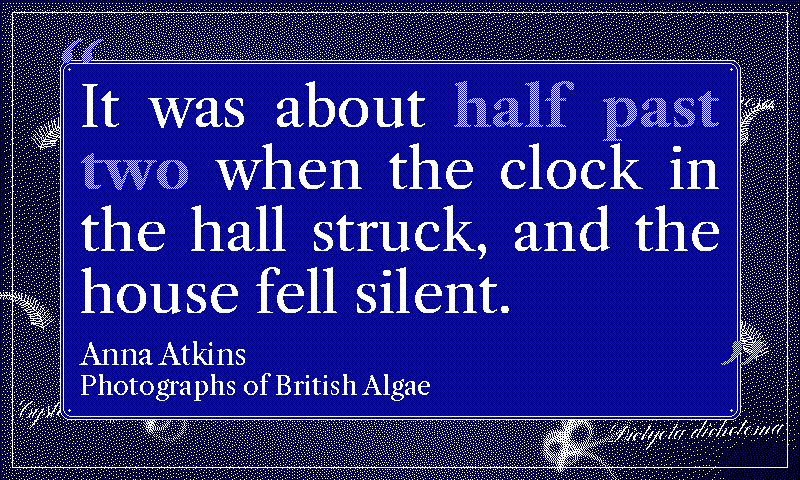
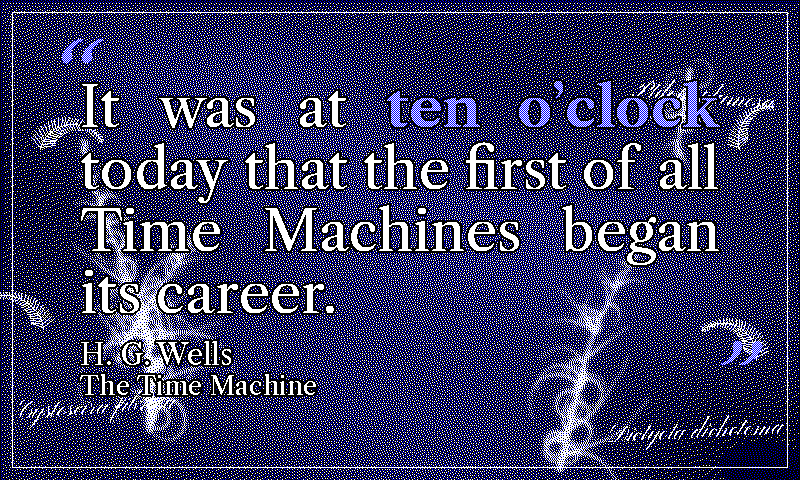
Refresh the anna_atkins preview and its stale CLAUDE.md description
The preview under idle_hours/assets/previews/ was committed with the
theme (19bcbca) and never regenerated, so it was stale twice over.

It showed a placeholder quote attributed to "Anna Atkins / Photographs
of British Algae" rather than the pinned H. G. Wells passage every other
preview uses, breaking the README table's "one passage shown sixty-one
ways" premise for this row.

It also showed the body-text knockout panel that 1654c94 removed. That
commit replaced the panel with a per-glyph black halo so the full
photogram stays visible, and regenerated the golden fixture, but not the
preview -- the golden suite fences the code, nothing fences the previews.

CLAUDE.md still described the removed panel as layer (5) and still
claimed the theme was threaded through the clear_rect-knockout dispatch,
which contradicted both the code and the comment _CLEAR_RECT_PADS
carries saying anna_atkins deliberately omits a knockout. Rewrite layer
(5) to describe the halo and record why the panel went: the failure was
geometric rather than chromatic -- both the Prussian-blue and the
frosted-grey variants covered ~62% of the canvas (663x359 of 800x480,
measured off the shipped blue one), so no tint would have saved it.

The preview is now byte-identical to what the documented regeneration
command in the README produces.

Claude-Session: https://claude.ai/code/session_01PbEGAhRw54Eiqhzg9bjcUW

diff --git a/CLAUDE.md b/CLAUDE.md
@@ -608,7 +608,7 @@ Two of those additions failed on their first cut, in the same direction: **too m
   - `chrono` (twilight-blue gradient sky / white body / yellow matched-phrase, Pixelify Sans — a **16-bit SNES JRPG** dialogue scene (Final Fantasy VI / Chrono Trigger era), the eighth theme to bypass the literary layout entirely, dispatching from `render` into its own `render_chrono_frame`. The deliberate companion / step-up to the 8-bit `questline`: where questline is flat NES bands + chunky monospace Press Start 2P, chrono shows the three things 8-bit hardware couldn't — **gradient-shaded backgrounds**, a **translucent-blue gradient dialogue window with a rounded beveled border**, and a **character portrait sub-window** — in the finer, multi-weight Pixelify Sans. `_chrono_paint_sky` paints an atmospheric twilight: a per-row Bayer **density-ramp gradient** (deep navy B+K at the zenith fading to pure blue at mid-sky, then a rising white-dither haze toward the horizon — the continuous tone flat 8-bit bands can't produce), ~70 deterministic white stars (`_CHRONO_STAR_SEED`, cleared from the moon's disc), a pale white moon with faint sky-blue (B+W) craters, and a **two-range mountain silhouette** (a solid-blue back range + a navy B+K-dithered front range via `_chrono_fill_poly`) for parallax depth. The quote sits in the iconic **FF blue window** (`_chrono_window_fill` paints a navy→blue→faint-sky-blue vertical gradient onto a private tile and pastes it through a rounded-rectangle mask so the corners read soft; `_chrono_window_border` strokes a white rounded double frame with small yellow corner-accent ticks). A **portrait sub-window** (`_chrono_paint_portrait`, same window recipe at smaller scale) carries an ornate, *shaded* **hourglass** — the "portrait" a cutscene frames beside the dialogue, and thematically exact for `chrono` (= time). A hand-built frontal face reads as crude on a 6-ink panel; a geometric object renders cleanly and lets the tonal-dither trick do real work. The hourglass uses **multi-tone shading ramps synthesised from the six inks** (`_CHRONO_ART_TONES`: cream→gold→bronze brass via Y+W / Y / R+Y, amber sand at varying R+Y density, sky-tint glass via B+W) so the brass, glass and sand read as rounded, lit volumes rather than flat shapes. `_chrono_build_hourglass` sculpts it with **vector shapes at a low logical resolution** (a brass frame — capped top/bottom with finials + two shaded side posts — two sky-tinted glass bulbs with specular streaks, and amber sand draining from a dished surface in the upper bulb through the neck as a thin stream onto a mound in the lower bulb; light from the upper-left) drawn into a tone-indexed `L` image; `_chrono_paint_hourglass` upscales it (NEAREST) and dither-maps each tone index to its Spectra-6 colour at absolute panel coordinates so the synthesised tones share a continuous Bayer phase with the rest of the frame. This shape-plus-dither approach is what gets the rounded SNES look out of a 6-ink panel — a flat hand-pixelled sprite cannot. (An earlier revision rendered a shaded anime face here; the geometric hourglass both reads cleaner on the panel and ties the portrait to the theme.) `_chrono_paint_dialogue` prints the **author as a white Pixelify Sans Bold speaker-name header**, then the quote left-aligned below with the matched time-phrase in **yellow Pixelify Sans Bold** — a real weight step on top of the accent colour, the payoff of the variable font (questline's single-weight Press Start 2P differentiates on colour alone). A yellow ▼ continue arrow sits bottom-right; a white `— from {Title} —` footer runs along the window foot (a sky-blue B+W dither was tried but averaged too close to the window fill to stay legible at the footer point size). Like `questline` / `marquee`, the digital HH:MM is **never surfaced** — the matched phrase carries the time; `time_str` is `del`-asserted at the top of `render_chrono_frame`. Saturation tier `0.7` (gradient-blue ground). Stays in the button-B / auto / random rotation. No `_DEBUG_LABEL_RIGHT_INSET` entry — custom frame, ignores `mode`.)
   - `outrun` (black ground / white Oxanium body / synthesised-magenta matched-phrase, **1980s synthwave / Outrun sunset** — the ninth theme to bypass the literary layout entirely, dispatching from `render` into its own `render_outrun_frame`. The "neon" counterpart to the cool digital themes (`nightvision` terminal-green, `chrono` JRPG-blue): where those are screens, outrun is a *poster*. Composition layers (deepest → shallowest): (1) `_outrun_paint_sky` — a two-zone per-row Bayer **density-ramp gradient** giving a continuous deep-indigo-navy zenith (blue + a heavy black wash) → pure blue mid-sky → red-leaning **magenta horizon** (blue + red, red capped at 0.36 so it stays a blue-leaning violet rather than tipping into fire-engine red — red out-luminates blue, so an even mix reads hot); the zone seam is placed exactly where the navy ramp reaches pure blue (black density 0) so it's continuous. All the *warm* colour is reserved for the sun, keeping the quote's white-on-cool contrast high. Plus ~70 deterministic white stars (`_OUTRUN_STAR_SEED`) confined to the dark upper sky above the sun cap. (2) `_outrun_paint_grid` — the dark near-black ground (faint-blue Bayer specks) carries the iconic **neon perspective grid**: magenta verticals fanning from a central vanishing point on the horizon and cyan horizontals marching toward the foot with perspective spacing (y = horizon + span·t², so lines pack near the horizon), plus a bright white horizon line with a cyan under-glow. PIL has no per-pixel line colour, so each grid line is plotted via an integer **Bresenham** point list (`_outrun_line_points`) and coloured per-pixel — verticals alternate red/blue (→ magenta), horizontals alternate green/blue (→ cyan) — so the two-tone neon reads solid at panel distance while staying entirely on the Spectra-6 palette. (3) `_outrun_paint_sun` — the **sliced retrowave half-sun**: the disc centre (`_OUTRUN_SUN_CENTER`) sits *below* the horizon so only the upper cap shows as rising from behind the grid; the visible cap carries a yellow→tangerine→magenta-foot vertical gradient mapped across its *visible* height (golden crown via R+Y at density 0.60, tangerine body via the documented R+Y 5/8:3/8 recipe, magenta foot via R+B melting back into the sky), sliced by horizontal **slits** (left unpainted so the sky shows through) that *widen toward the horizon* — the canonical sliced-sun silhouette. (4) `_outrun_paint_quote` — the literary quote floats in the dark upper sky (`_OUTRUN_QUOTE_RECT`) in solid white Oxanium, centred line-by-line via the shared `fit_quote` / `wrap_styled_text` pipeline, with the matched time-phrase painted as a 5/8:3/8 red+blue **magenta** stipple (`draw_text_dithered`) — the iconic synthwave neon-pink accent, biased toward red (not 50/50 violet) so it stays crisp against the navy/blue sky instead of melting into the blue ground, and ties to the magenta grid verticals; an earlier revision used a green-biased green+blue teal here, but teal read dim and illegible against the cool sky — while the body stays solid white for maximum legibility on the navy ground. (5) `_outrun_paint_credits` — author (white) + `— title —` (magenta) below the quote in the condensed Antonio poster-credit face the other custom frames reuse, in the clear sky band between the quote and the rising sun. Like `questline` / `chrono` / `marquee`, the digital HH:MM is **never surfaced** — the matched phrase carries the time; `time_str` is `del`-asserted at the top of `render_outrun_frame`. Every raw PixelAccess write is bounds-clipped so the `/api/preview` thumbnail path (down to ~60 px tall) crops the lower composition rather than raising — same defensive pattern as the chrono / diags frames. Fully deterministic (the only RNG is the seeded star field) so re-renders of a given time are byte-identical. Body face is **Oxanium** (Sev Meyer, OFL — a techno / cyberpunk display sans whose squared geometric terminals read as period-correct 1980s retro-future; variable Weight axis, so the matched-phrase `quote_bold` role pins the Bold instance for a real weight step on top of the magenta accent). Deliberately chosen over the more famous **Orbitron** — Orbitron is the canonical synthwave face but is too wide to hold a dense 200-char literary quote at a legible size across a room, whereas Oxanium's narrower proportions keep long lines readable while preserving the neon-future silhouette. Saturation tier `0.7` (black ground — the neon tones need the dark-ground push). Stays in the button-B / auto / random rotation. No `_DEBUG_LABEL_RIGHT_INSET` entry — custom frame, ignores `mode`.)
   - `grimdark` (black void ground / bone-white Cinzel Decorative body / forge-amber matched-phrase / gold Imperial trim, **Warhammer-40K-esque Imperial Gothic** — "in the grim darkness of the far future." A literary-layout theme (not a custom-render frame) with a heavy `draw_grimdark_border` decoration, the militaristic-cathedral / gothic-industrial register of the 40K Imperium. The matched time phrase's red accent is rerouted in `_draw_text_body` to **forge-amber** (R+Y 5/8:3/8 tangerine via the shared 4×4 Bayer threshold — the documented `deco` / `atomic` / `astrarium` recipe) so the time glows like molten metal / a hazard stripe against the black bulkhead, tying it to the gold Imperial trim; a 50/50 R+Y would read as washed-out amber because yellow out-luminates red, so the 3/8 yellow bias drags the perceived hue back onto the warm forge-orange. The oversized opening/closing quote marks render in **gold** blackletter — both `ornament` THEMES slots pin to yellow so `draw_faux_gray_text` collapses to solid gilt (same trick `gothic` uses with red — on the black ground a white `ornament_light` half would wash the gilt to grey). `draw_grimdark_border` lays the rest of the vocabulary on top using solid Spectra-6 inks via ImageDraw primitives only (so it clips silently at `/api/preview` thumbnail sizes rather than indexing a raw `PixelAccess` past the canvas): a **Layer-0 industrial gunmetal plate** (a committed continuous-tone weathered-metal PNG — `idle_hours/assets/grimdark_gunmetal.png`, produced by `scripts/generate_grimdark_plate.py`: a dark charcoal vignette + seeded oxidation blotches that lighten (scuffed/oxidised plate) or darken (grime/shadow) + faint diagonal scratches — Floyd–Steinberg-dithered at render time to the **white+black** sub-palette via `_load_dithered_plate`, so the bulkhead breaks into an organic white-on-black stipple whose local density tracks the metal's tone, the K+W inverse of the cream Y+W washes other themes paint on white grounds; the second consumer of the render-time image-dithering capability `anna_atkins` introduced. Spectra 6 has no grey ink, so the dither *is* how gunmetal exists on the panel. Painted first so the trim / ornaments / quote text all land on top. If the asset is missing, `_grimdark_paint_mottle` synthesises the equivalent — sparse ~4.5% organic white hash-scatter (NOT an ordered Bayer grid, which would read as a regular dot-screen) + seeded lighten/darken blotches — as a deterministic graceful fallback); a **doubled imperial trim** (thick gold outer rule + thin blood-red inner rule, the polychrome banded frame of an ornate reliquary / starship bulkhead hatch — distinct from `gothic`'s red+white doubled rule and `illuminated`'s single-ink doubled rule); a gold **Imperial Aquila** (the double-headed eagle, the single most recognisable Imperium device — a torso diamond, twin outward-facing beaked heads, and two swept wings whose serrated lower edge reads as splayed flight feathers) centred in the top margin; a **Mechanicus cog-skull** (a bone-white skull set inside a gold toothed gear ring — the literal icon of the Adeptus Mechanicus machine-priesthood — flanked by two smaller ossuary skulls) centred in the bottom margin via the `_grimdark_cog` / `_grimdark_skull` helpers; **riveted bulkhead seams** (a vertical column of small gold rivets down each side rail with two embedded Mechanicus cog nodes per side — the servitor / machine-corridor texture, kept in the narrow x≈25 side band well clear of the centred quote column); **corner rivets** (gold hex-bolt discs with a blood centre at the four inner corners — armour-plate fastenings); and **mid-edge studs** (small blood diamonds riveted onto the gold side rules). The Aquila is centred horizontally (clear of the right-aligned `DEBUG MODE` banner) and the trim's right rule leaves ~7 px of clearance (same as `newsprint`), so `grimdark` is intentionally absent from `_DEBUG_LABEL_RIGHT_INSET` — same exemption as `atomic` / `dispatch`. Visually distinct from the rotation's two existing black/white/red themes: `gothic` is an EB-Garamond body + Unifraktur matched phrase under a cathedral-tracery border, and `roman` is Cinzel-everywhere on a white ground with no blackletter — neither shares grimdark's Cinzel-body + Unifraktur-ornament + Aquila/skull/rivet silhouette. Saturation tier `0.7` (dark non-white ground).)
-  - `anna_atkins` (deep Prussian-blue cyanotype ground / ghostly white algae-photogram silhouettes / white Libre Caslon Text body / sky-blue matched phrase, **Anna Atkins 1843 botanical cyanotype** — *Photographs of British Algae: Cyanotype Impressions*, the first book ever illustrated with photographs. **The theme that introduces the repo's render-time image-dithering capability** (`dither_image_to_palette` + `_load_dithered_plate`): rather than synthesising every graphic from ImageDraw primitives, a committed *continuous-tone* PNG (`idle_hours/assets/anna_atkins_cyanotype.png`, produced by `scripts/generate_anna_atkins_plate.py`) is Floyd–Steinberg-dithered down to the inks at render time, giving photographic tonal fidelity on the 6-colour panel — the deep blues break into a blue/black stipple, the feathered specimen edges melt through a blue+white "sky-blue" haze, and the bright cores stay white. A literary-layout theme (not a custom-render frame) with a heavy `draw_anna_atkins_border` painter threaded through the `clear_rect`-knockout dispatch the same way `kanagawa` / `cartograph` / `circuit` are. (The committed plate is an *original work in the cyanotype idiom* rather than a museum scan: Atkins's photographs are public domain, but the historical scans live behind image hosts the build environment can't reach, and the point of the asset is to exercise the dithering path, which needs real continuous-tone content — drop a genuine scan in at the same path and it dithers identically. The plate is dithered against only the **white/black/blue** cyanotype sub-palette, not the full Spectra-6 set, so error diffusion can't scatter stray red/green specks across the deep blues; still a strict subset of SPECTRA6 so the final `snap_image_to_palette` is a no-op.) Layers, deepest → shallowest: (1) **Layer 0** — the full-bleed FS-dithered photogram (or, if the asset is missing, the flat blue `page_bg` deepened to Prussian via a blue→black Bayer stipple so the theme still renders); (2) **procedural white fern/algae sprigs** in the four corner margins — crisp 1 px ink-line accents (a curving rachis with pinnate leaflets via `_anna_atkins_fern`) layered over the soft photographic specimens; (3) **handwritten white Latin species labels** in copperplate (Pinyon Script — "Cystoseira fibrosa", "Ptilota plumosa", "Dictyota dichotoma"), slightly rotated and stamped *binary* (an L-mask rotated then pasted solid-white where opaque, so the rotated antialiased edges can't leave a blue halo after palette snapping) the way Atkins captioned each plate in her own hand; (4) a **thin white plate rule** at inset 12 (the mounting-sheet edge); (5) the **body-text knockout** — when `render` supplies `clear_rect`, a deep Prussian-blue rounded panel (solid blue + blue→black Bayer) with a doubled white plate rule and corner pin-dots, so the white quote text reads cleanly over the busy plate. The matched-phrase `accent` is a **yellow sentinel**, not a painted colour: `_draw_text_body` reroutes the matched-phrase yellow to a 50/50 blue+white **sky-blue** stipple (the documented `glacier` recipe), so the time phrase reads as a ghostly cyanotype element (paler, cooler, stippled) distinct from the crisp solid-white body rather than the warm yellow the sentinel would otherwise paint; the sentinel surfaces literally only in the debug-mode banner (yellow-on-blue, legible), the same accent-as-debug-banner pattern `firmament` uses on its navy ground. The oversized opening/closing quote marks render as the same sky-blue stipple (ornament_dark/light = blue/white via `draw_faux_gray_text`). Distinct from the rotation's other blue themes by construction: `blueprint` is a white-ground drafting grid with red registration marks, `glacier` is a white-ground frost-crystal treatment, and `firmament` is a navy *celestial* atlas — anna_atkins is the only *blue-ground photographic* theme. It was the first theme to dither a committed raster image; `grimdark` (white+black gunmetal plate) and `letter` (white/yellow/red/green aged-paper plate) now reuse the same `dither_image_to_palette` + `_load_dithered_plate` path for their Layer-0 backgrounds, each restricted to its own sub-palette and falling back to a synthesised stipple when the asset is absent. Saturation tier `0.7` (deep-blue non-white ground).)
+  - `anna_atkins` (deep Prussian-blue cyanotype ground / ghostly white algae-photogram silhouettes / white Libre Caslon Text body / sky-blue matched phrase, **Anna Atkins 1843 botanical cyanotype** — *Photographs of British Algae: Cyanotype Impressions*, the first book ever illustrated with photographs. **The theme that introduces the repo's render-time image-dithering capability** (`dither_image_to_palette` + `_load_dithered_plate`): rather than synthesising every graphic from ImageDraw primitives, a committed *continuous-tone* PNG (`idle_hours/assets/anna_atkins_cyanotype.png`, produced by `scripts/generate_anna_atkins_plate.py`) is Floyd–Steinberg-dithered down to the inks at render time, giving photographic tonal fidelity on the 6-colour panel — the deep blues break into a blue/black stipple, the feathered specimen edges melt through a blue+white "sky-blue" haze, and the bright cores stay white. A literary-layout theme (not a custom-render frame) with a heavy `draw_anna_atkins_border` painter. Unlike `kanagawa` / `cartograph` / `circuit` it takes **no `clear_rect` knockout** — the quote is drawn straight onto the plate; see layer (5). (The committed plate is an *original work in the cyanotype idiom* rather than a museum scan: Atkins's photographs are public domain, but the historical scans live behind image hosts the build environment can't reach, and the point of the asset is to exercise the dithering path, which needs real continuous-tone content — drop a genuine scan in at the same path and it dithers identically. The plate is dithered against only the **white/black/blue** cyanotype sub-palette, not the full Spectra-6 set, so error diffusion can't scatter stray red/green specks across the deep blues; still a strict subset of SPECTRA6 so the final `snap_image_to_palette` is a no-op.) Layers, deepest → shallowest: (1) **Layer 0** — the full-bleed FS-dithered photogram (or, if the asset is missing, the flat blue `page_bg` deepened to Prussian via a blue→black Bayer stipple so the theme still renders); (2) **procedural white fern/algae sprigs** in the four corner margins — crisp 1 px ink-line accents (a curving rachis with pinnate leaflets via `_anna_atkins_fern`) layered over the soft photographic specimens; (3) **handwritten white Latin species labels** in copperplate (Pinyon Script — "Cystoseira fibrosa", "Ptilota plumosa", "Dictyota dichotoma"), slightly rotated and stamped *binary* (an L-mask rotated then pasted solid-white where opaque, so the rotated antialiased edges can't leave a blue halo after palette snapping) the way Atkins captioned each plate in her own hand; (4) a **thin white plate rule** at inset 12 (the mounting-sheet edge); (5) **no body panel** — the quote is rendered directly over the photogram, and legibility comes from a subtle **per-glyph black halo** (a 2 px black `stroke_width` pass stamped in `_draw_text_body` before the real white / sky-blue glyph goes down on top, so each letter sits inside a thin dark ring). Two knockout panels were tried first and both failed the same way — a Prussian-blue one at the theme's introduction, then a frosted translucent-grey one — because the failure is geometric rather than chromatic: this theme's whole point is the dithered plate, and a panel big enough to hold a dense quote covers ~62% of the canvas (663×359 of 800×480, measured off the shipped blue variant), so whatever it is filled with, most of the specimen field sits behind a rectangle. Tinting it more faintly does not help; only removing it does. A halo buys the same contrast at the cost of a 2 px ring per glyph, and it is also the truer object: a real cyanotype carries its caption written straight on the sheet, not on a card laid over it. This is why `anna_atkins` is deliberately absent from `_CLEAR_RECT_PADS` (the dict carries a comment saying so) — re-adding it would restore the panel. The matched-phrase `accent` is a **yellow sentinel**, not a painted colour: `_draw_text_body` reroutes the matched-phrase yellow to a 50/50 blue+white **sky-blue** stipple (the documented `glacier` recipe), so the time phrase reads as a ghostly cyanotype element (paler, cooler, stippled) distinct from the crisp solid-white body rather than the warm yellow the sentinel would otherwise paint; the sentinel surfaces literally only in the debug-mode banner (yellow-on-blue, legible), the same accent-as-debug-banner pattern `firmament` uses on its navy ground. The oversized opening/closing quote marks render as the same sky-blue stipple (ornament_dark/light = blue/white via `draw_faux_gray_text`). Distinct from the rotation's other blue themes by construction: `blueprint` is a white-ground drafting grid with red registration marks, `glacier` is a white-ground frost-crystal treatment, and `firmament` is a navy *celestial* atlas — anna_atkins is the only *blue-ground photographic* theme. It was the first theme to dither a committed raster image; `grimdark` (white+black gunmetal plate) and `letter` (white/yellow/red/green aged-paper plate) now reuse the same `dither_image_to_palette` + `_load_dithered_plate` path for their Layer-0 backgrounds, each restricted to its own sub-palette and falling back to a synthesised stipple when the asset is absent. Saturation tier `0.7` (deep-blue non-white ground).)
   - `lieder` (cream-washed white / roman-black engraving / italic-black editorial marks / red sung phrase, Alegreya + Noto Music — **an engraved art-song manuscript**, the quote as the vocal line of a *Lied*. The eleventh theme to bypass the literary layout entirely, dispatching from `render` into its own `render_lieder_frame`. The words are engraved as **lyrics beneath a five-line stave, one notehead per word**, and — uniquely in the rotation — the clock is carried by the score's own furniture rather than by an ornament that merely *encodes* it: the **time signature is the hour over 4** (7 o'clock → 7/4) and, because a time signature genuinely governs the measure length, the hour also decides **where the barlines fall** — a 3 o'clock page is densely barred, a 12 o'clock page wide open. The **tempo mark is the minute** — an Italian tempo word from `_LIEDER_TEMPO_WORDS` plus a metronome mark of `60 + minute` BPM, which walks Larghetto → Allegro across the hour and stays musically plausible at every minute (a literal `♩ = 3` at three minutes past would be nonsense). This is the reason `time_str` is *used* here, where `questline` / `chrono` / `outrun` / `marquee` `del`-assert it; the digital HH:MM is still never printed as digits, the matched phrase carrying the readable time as everywhere else.
     **Text → notes.** `_lieder_notes` splits the quote into *syllables*, one note each, via `_lieder_syllables`. That splitter is a heuristic and deliberately so — a correct English syllabifier needs a pronunciation dictionary, and the failure that matters musically is the syllable **count** (it decides how many notes a word gets), not the split point: a reader forgives `ga-ther` for `gath-er`, but a three-note setting of a two-syllable word is simply wrong. Rules, in order of importance: `qu` is a consonant (so `quiet` has one vowel run, not two); a final silent `e` is not a syllable unless it is the `-le` of `ta-ble`; `-ed` is silent except after t/d; `-es` is silent except after a sibilant; a digraph (`th`/`sh`/`ch`/`wh`/`ph`/`gh`/`ck`/`ng`/`qu`) never splits; a doubled consonant always splits between the pair. `_LIEDER_SYLLABLE_EXCEPTIONS` covers the rest, and was **derived by scanning the 150 most frequent multi-syllable words in the committed corpus**, not invented — every hyphenation engine ships a list like this (TeX calls it `\hyphenation{}`). Two rules were tried and *removed* because measurement showed they cost more than they bought: an "i before a/e/o is a hiatus" rule (fixes `qui-et`, breaks `fri-end` / `be-li-eve` / `car-riage`, which are far more frequent) and a "shift a one-letter head right" rule (fixes `an-oth-er`, breaks `eve-ning` / `eve-ry-thing`). Both live in the exception table now instead.
     **Rhythm.** `_lieder_rhythm` gives each syllable a duration from its stress — a phrase-final syllable is held (a dotted half at the very end), a stressed one takes a quarter, a weak one an eighth — which is what gives the line speech rhythm rather than the flat stream of equal notes the first revision drew. Stress comes from `_LIEDER_FUNCTION_WORDS` (unstressed by definition) and first-syllable-of-a-content-word, with `_LIEDER_WEAK_PREFIXES` moving the accent to syllable two for `a-BOUT` / `be-FORE` / `re-TURN`. Bars are then filled to **exactly** `numerator` beats: a note is shortened rather than allowed to overflow, because a note straddling a barline has to be written as a tie and an untied one is wrong notation. The final bar is completed in two steps, because a single notehead can only express a handful of durations — the last syllable grows as far as one notated duration allows, and whatever is still missing is padded with **rests**, which is exactly what an engraver does when a voice stops mid-measure. The first revision did only the growing step and silently gave up whenever the remainder was not one of four values, which left the last bar short on **51% of (row, meter) pairs** across the committed corpus — 83% at 12/4 — while this document claimed bars always fill exactly. `tests/test_render_quote_themes.py::TestLiederRhythm` now sweeps every corpus row against all twelve meters and fails on either an incomplete final bar or a note that crosses a barline; the meter *is* the hour, so all twelve are reachable in normal operation and none of it is hypothetical.
